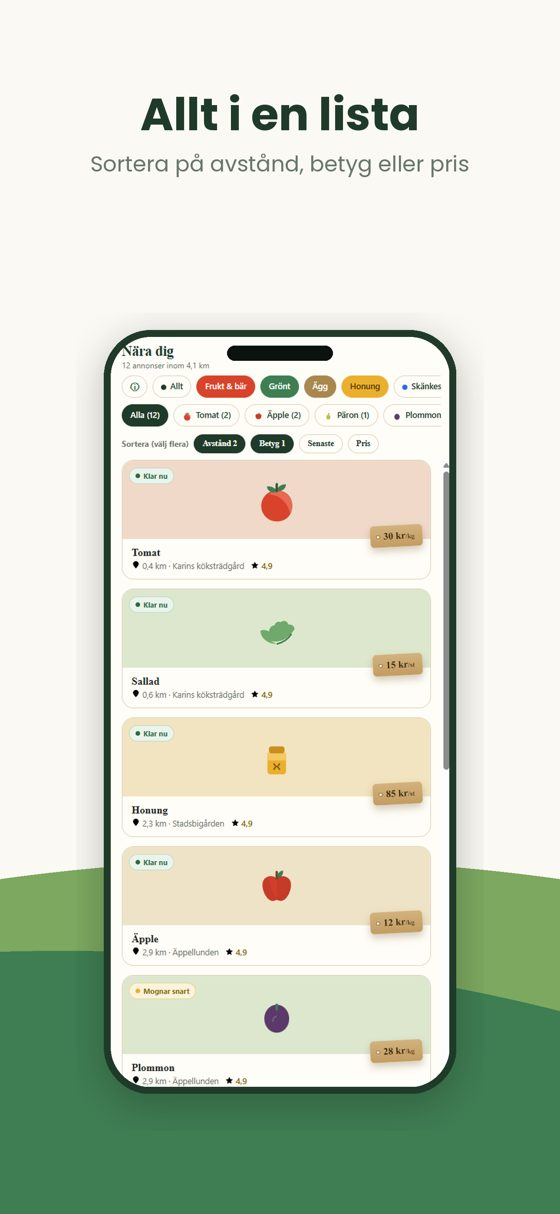
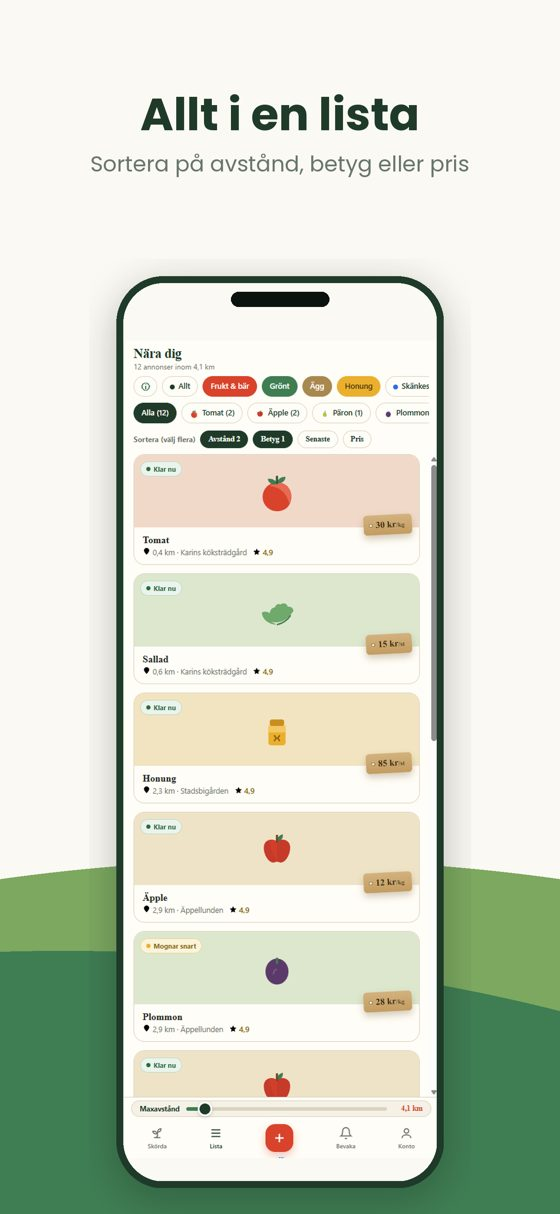
Add files via upload

Changed region(s): [[0.1821, 0.2133, 0.8196, 1.0]]

diff --git a/index.html b/index.html
@@ -79,6 +79,11 @@ h3{font-size:17px;color:var(--kale);font-weight:600;margin-bottom:6px}
 .plan{background:var(--paper);border:1px solid var(--line);border-radius:18px;padding:26px}
 .plan.hi{border:2px solid var(--leaf)}
 .plan .price{font-size:30px;font-weight:700;color:var(--kale);margin:6px 0 4px}
+.toggle{display:inline-flex;background:var(--paper2);border-radius:99px;padding:3px;margin:12px 0 4px}
+.tg{border:none;background:none;font-family:inherit;font-size:13px;font-weight:600;color:var(--muted);
+ padding:7px 15px;border-radius:99px;cursor:pointer}
+.tg.on{background:var(--paper);color:var(--kale);box-shadow:0 1px 3px rgba(31,58,41,.12)}
+.save{font-size:13px;color:var(--leaf);font-weight:600;margin-bottom:4px;min-height:20px}
 .plan .price small{font-size:14px;font-weight:400;color:var(--muted)}
 .plan ul{list-style:none;margin-top:16px}
 .plan li{font-size:14.5px;color:var(--muted);padding:7px 0 7px 26px;position:relative}
@@ -217,7 +222,12 @@ footer a{color:#fff}
       </div>
       <div class="plan hi">
         <span class="badge">Premium</span>
-        <div class="price">79 kr <small>/ månad</small></div>
+        <div class="toggle">
+          <button class="tg on" id="tgM" onclick="setPlan('m')">Månadsvis</button>
+          <button class="tg" id="tgA" onclick="setPlan('a')">Årsvis</button>
+        </div>
+        <div class="price" id="pris">79 kr <small>/ månad</small></div>
+        <div class="save" id="spar">790 kr per år — två månader gratis</div>
         <ul>
           <li>Obegränsat antal varor</li>
           <li>Boost som lyfter en vara i sju dagar</li>
@@ -231,6 +241,11 @@ footer a{color:#fff}
     <p class="note" style="margin-top:20px">
       De 200 första säljarna i varje län får Premium gratis i ett år och behåller
       märket Grundsäljare för alltid.
+    </p>
+    <p class="note" style="margin-top:10px">
+      Premium är en prenumeration som förnyas automatiskt tills du säger upp den.
+      Uppsägning sker i telefonens inställningar, inte i appen. Priserna gäller i Sverige
+      inklusive moms.
     </p>
   </div>
 </section>
@@ -326,6 +341,18 @@ footer a{color:#fff}
   }
 })();
 document.getElementById('ar').textContent = new Date().getFullYear();
+
+function setPlan(v){
+  var m = v === 'm';
+  document.getElementById('tgM').classList.toggle('on', m);
+  document.getElementById('tgA').classList.toggle('on', !m);
+  document.getElementById('pris').innerHTML = m
+    ? '79 kr <small>/ månad</small>'
+    : '790 kr <small>/ år</small>';
+  document.getElementById('spar').textContent = m
+    ? '790 kr per år — två månader gratis'
+    : 'Motsvarar 66 kr per månad';
+}
 </script>
 </body>
 </html>